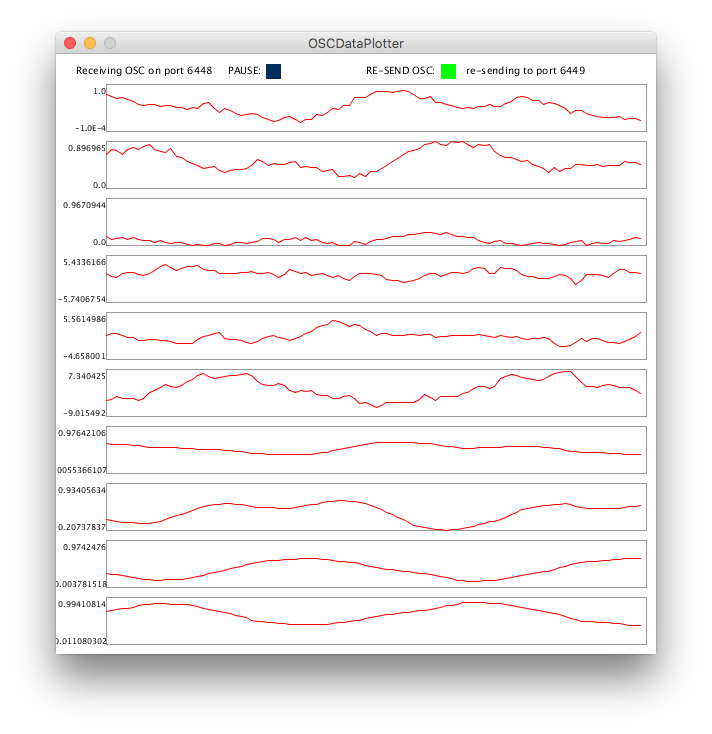
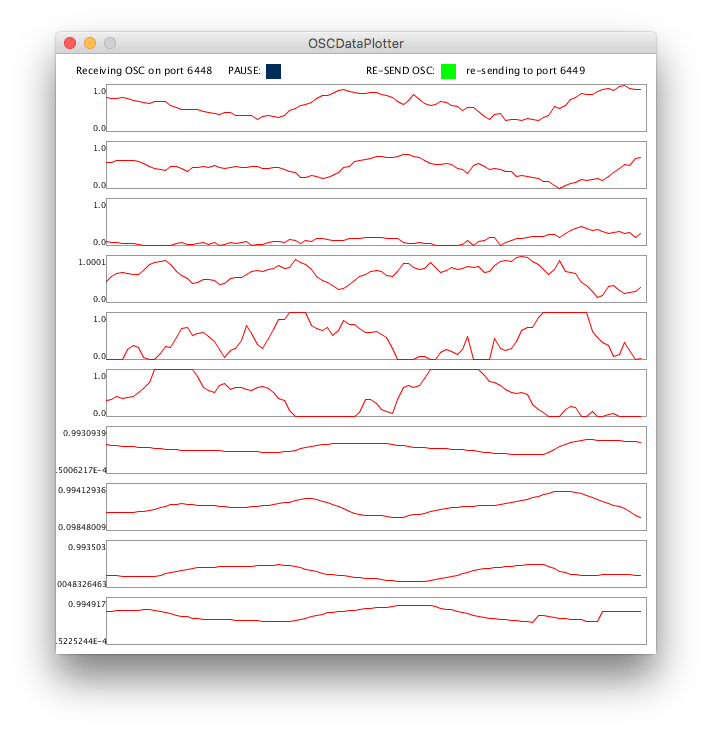
clamp gyro values

diff --git a/OSCtest/ViewController.swift b/OSCtest/ViewController.swift
@@ -24,6 +24,7 @@ class ViewController: UIViewController, CLLocationManagerDelegate{
     @IBOutlet weak var trainingButton: UIButton!
     @IBOutlet weak var hostIP: UITextField!
     @IBOutlet weak var hostPort: UITextField!
+   // @IBOutlet weak var outputNumText: UILabel!
     
     
     var motionManager: CMMotionManager!
@@ -42,6 +43,7 @@ class ViewController: UIViewController, CLLocationManagerDelegate{
         
         recSwitch.setOn(false, animated: false)
         runSwitch.setOn(false, animated: false)
+        //outputNumText.text = "1"
         
         scheduledTimerWithTimeInterval()
         
@@ -90,9 +92,9 @@ class ViewController: UIViewController, CLLocationManagerDelegate{
                 yaw = clamp(((degrees(x:(motionManager.deviceMotion?.attitude.yaw)!) + 180) / 360), minValue:0.0, maxValue:1.0)
             }
             if(motionManager.gyroData?.rotationRate.x != nil){
-                xRot = (motionManager.gyroData?.rotationRate.x)!
-                yRot = (motionManager.gyroData?.rotationRate.y)!
-                zRot = (motionManager.gyroData?.rotationRate.z)!
+                xRot = clamp(((degrees(x:(motionManager.gyroData?.rotationRate.x)!) + 180) / 360), minValue:0.0, maxValue:1.0)
+                yRot = clamp(((degrees(x:(motionManager.gyroData?.rotationRate.y)!) + 90) / 180), minValue:0.0, maxValue:1.0)
+                zRot = clamp(((degrees(x:(motionManager.gyroData?.rotationRate.z)!) + 180) / 360), minValue:0.0, maxValue:1.0)
             }
             //uncalibrated magnetometer readings
             //let xMag = motionManager.magnetometerData?.magneticField.x
@@ -177,4 +179,11 @@ class ViewController: UIViewController, CLLocationManagerDelegate{
             runningLabel.text = "RUN"
         }
     }
+    
+//    @IBAction func switchOutput(_ sender: UIStepper) {
+//        let message = OSCMessage(OSCAddressPattern("/wekinator/control/outputs"), sender.value)
+//        client.send(message)
+//        outputNumText.text = String(Int(sender.value))
+//
+//    }
 }

diff --git a/README.md b/README.md
@@ -17,8 +17,6 @@ as 10 seperate features.
 
 TODO:
 * add touch events, sliders, button etc...
-* moving rotation needs mapping to 0-1
-
 
 -- REQUIRES SwiftOSC
 
